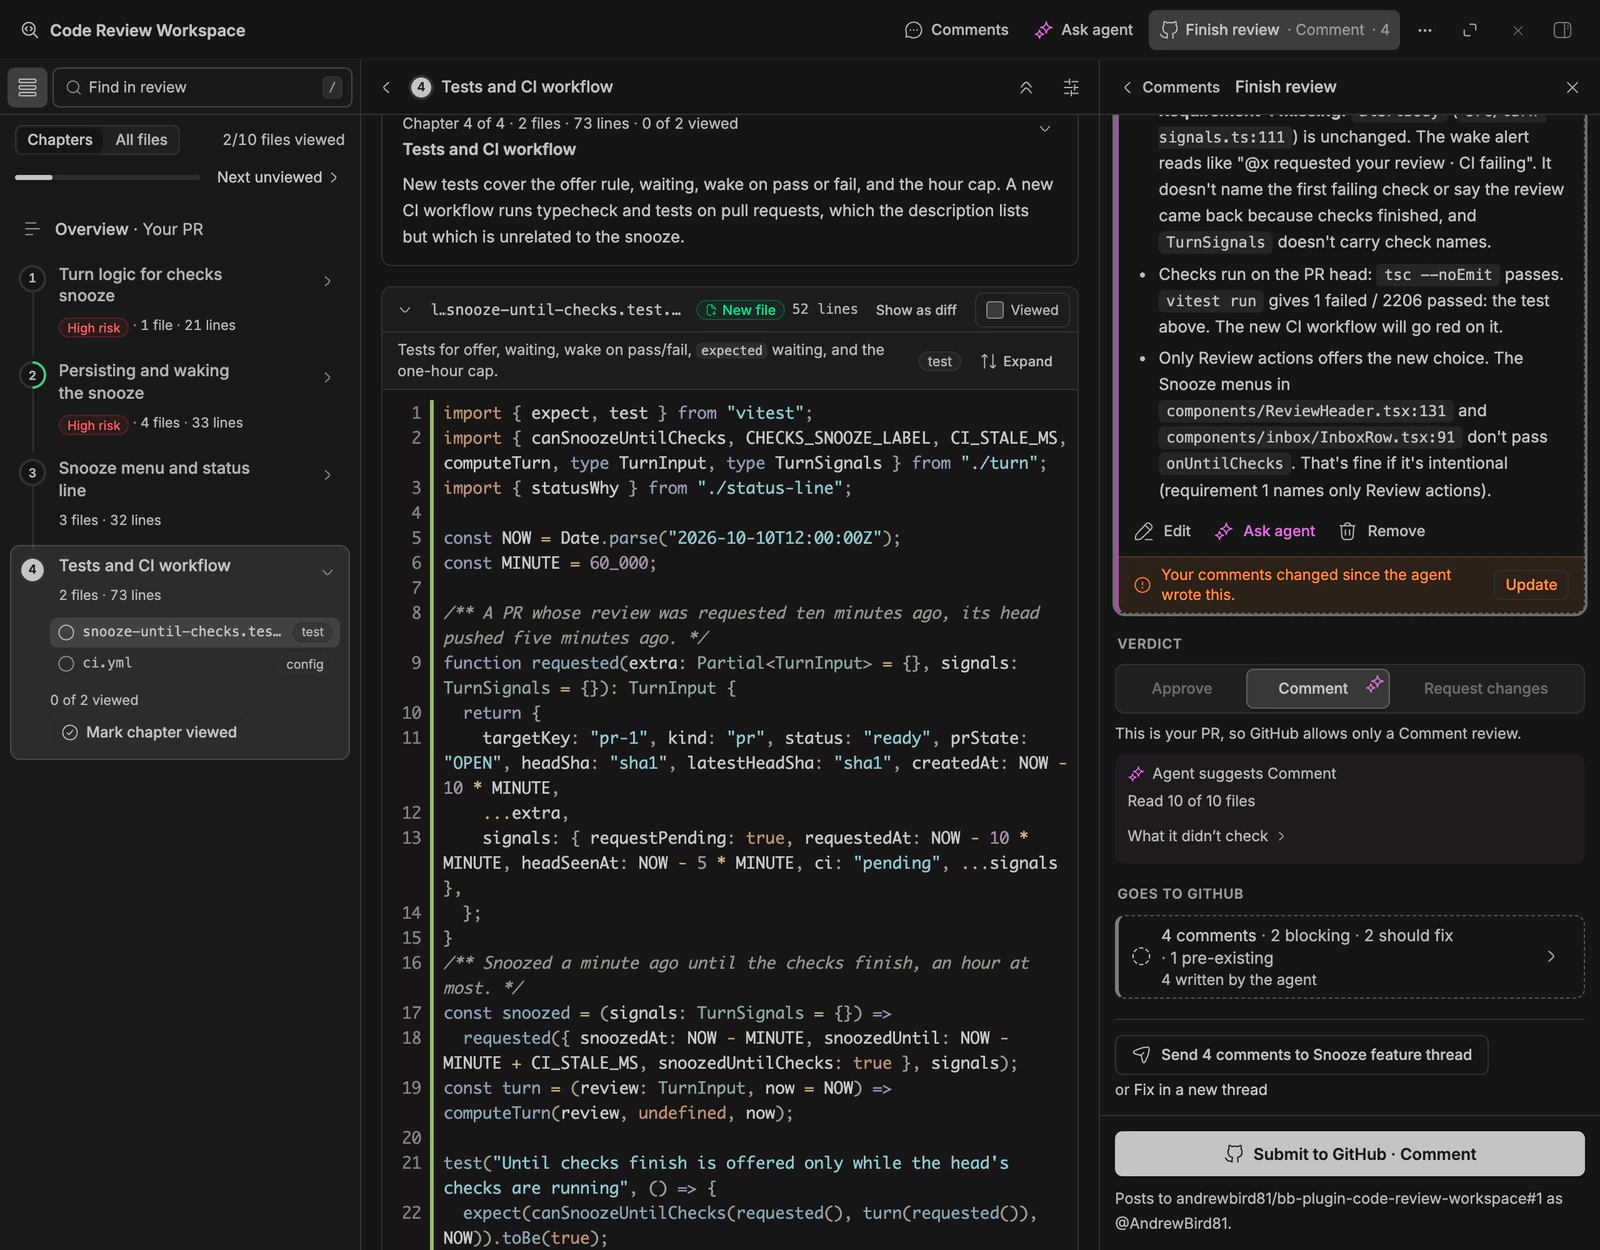
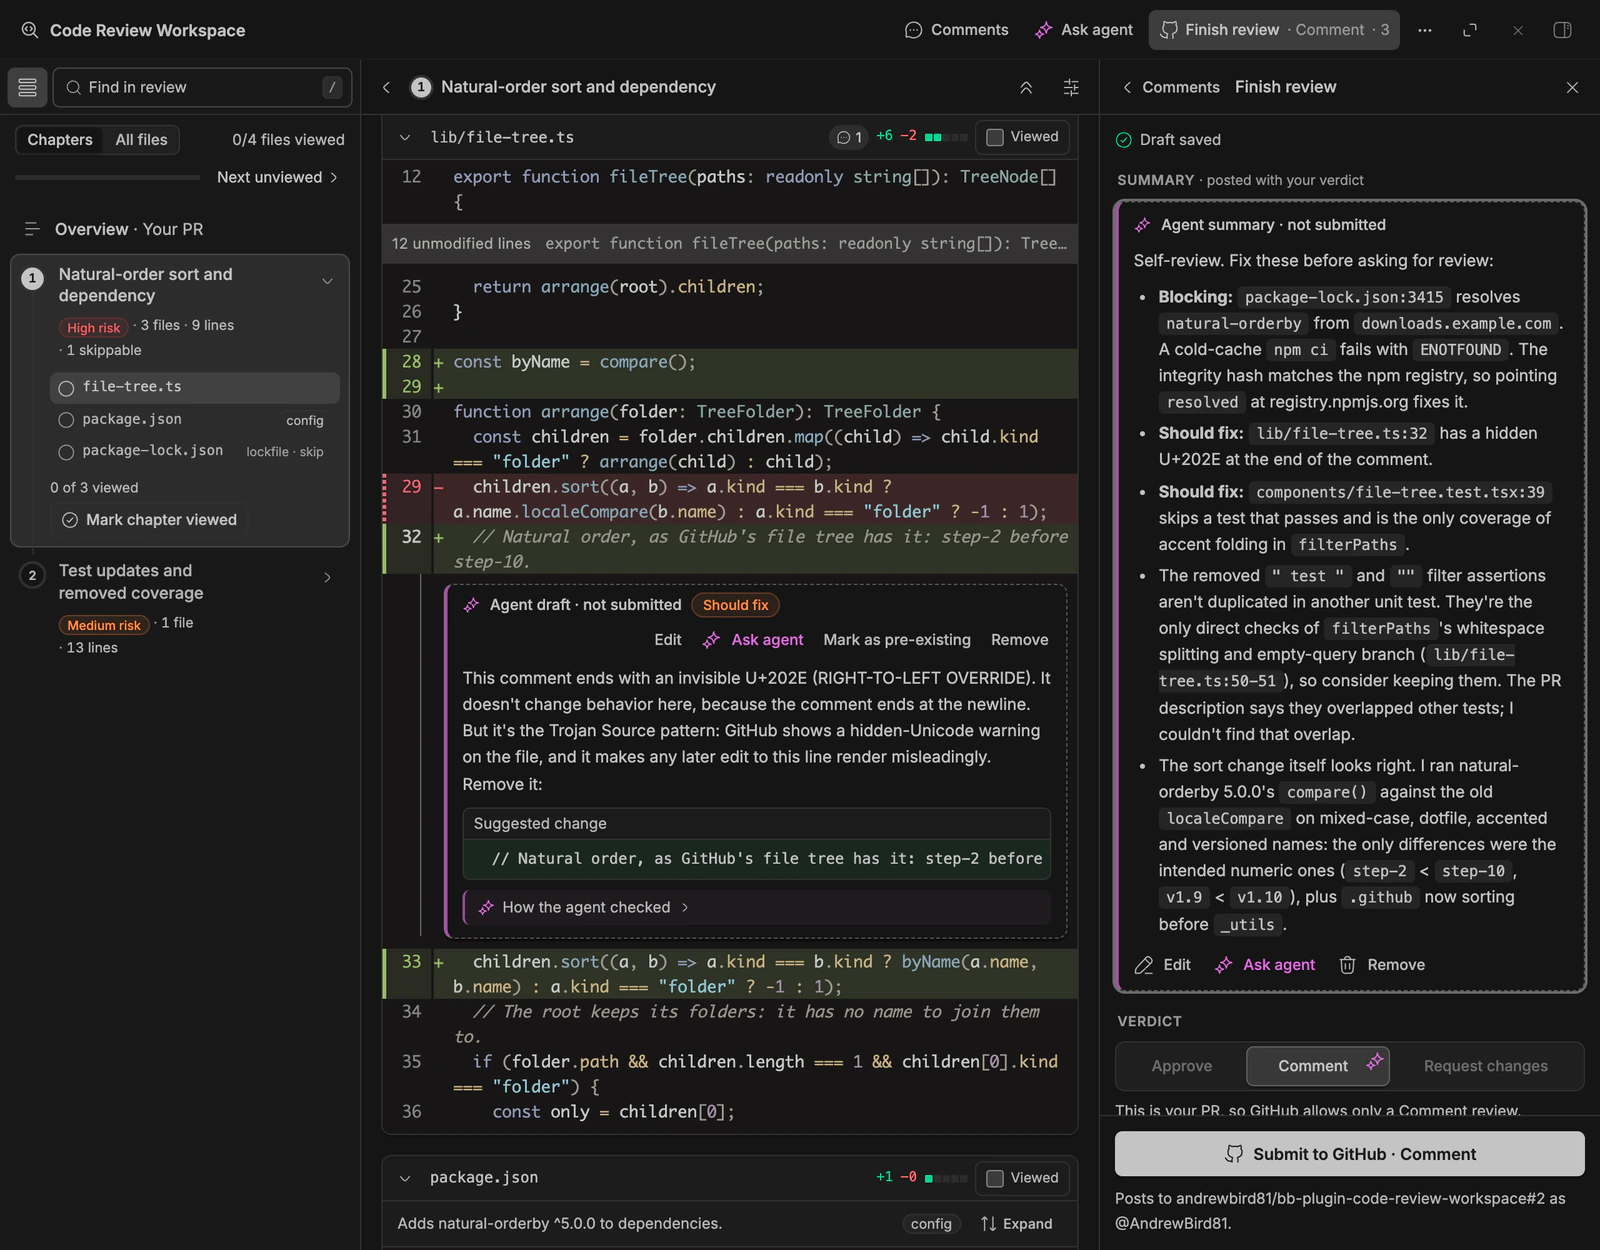
Tighten the README intro and gallery, and lead the overview with who it's for

Changed region(s): [[0.0, 0.0624, 1.0, 0.9984]]

diff --git a/README.md b/README.md
@@ -1,36 +1,23 @@
-# Code Review Workspace
-
 <picture>
   <source media="(prefers-color-scheme: dark)" srcset="docs/images/icon-dark.svg">
   <source media="(prefers-color-scheme: light)" srcset="docs/images/icon-light.svg">
   <img src="docs/images/icon-light.svg" width="64" height="64" alt="Code Review Workspace icon">
 </picture>
 
-Read a pull request or local change as a guided walkthrough, draft your review with an agent, and submit it to GitHub from [BB](https://getbb.app).
+# Code Review Workspace
 
-Code Review Workspace is a BB plugin for reviewing a GitHub pull request or a local Git change in one place: read the change chapter by chapter, inspect the diff, ask an agent about it, and prepare and submit your review.
+A [BB](https://getbb.app) plugin for reviewing a GitHub pull request or a local Git change: read it as a guided walkthrough, edit the review an agent drafts, and submit it to GitHub.
 
 - **Who it's for:** reviewers who need to understand a change well enough to approve it, often one an agent wrote.
 - **A guide to every file:** an agent writes a walkthrough of the change in chapters, and points to the lines most likely to hide a defect.
 - **A draft you own:** the review agent drafts comments, a summary, and a verdict. You edit them, and nothing posts until you submit.
-- **Whose turn:** All reviews says which reviews need you and which wait on their author.
+- **Whose turn:** the **All reviews** list shows which reviews need you and which wait on their author.
 - **Re-review:** after new commits, you see what changed since your review, and the agent checks your earlier feedback against it.
 - **Not for:** posting an agent's findings one by one. The [Code Review](https://github.com/robennals/bb-plugins/tree/HEAD/plugins/code-review) plugin does that.
 
-Formerly **Guided Review**: coming from it? See [Moving from Guided Review](#moving-from-guided-review).
+Formerly **Guided Review**. Coming from it? See [Moving from Guided Review](#moving-from-guided-review).
 
 ## Screenshots
-
-<picture>
-  <source media="(prefers-color-scheme: dark)" srcset="docs/screenshots/overview-dark.webp">
-  <source media="(prefers-color-scheme: light)" srcset="docs/screenshots/overview-light.webp">
-  <img src="docs/screenshots/overview-light.webp" alt="A review Overview lists what the PR does and why, three Start here hotspots, requirements scored 2 of 4 covered, a failing CI check, and chapters with High risk badges.">
-</picture>
-
-**Chaptered guide:** the Overview shows what changed, where to start, requirement coverage and checks.
-
-<details>
-<summary>More screenshots: agent drafts, Ask agent, Finish review, whose turn, re-review, lockfile flags, and the phone layout</summary>
 
 <picture>
   <source media="(prefers-color-scheme: dark)" srcset="docs/screenshots/chapter-drafts-dark.webp">
@@ -40,27 +27,26 @@ Formerly **Guided Review**: coming from it? See [Moving from Guided Review](#mov
 
 **Agent-drafted comments:** severity-tagged drafts with suggested changes, which you edit or remove.
 
+<details>
+<summary>More screenshots: the Overview, Ask agent, Finish review, All reviews, re-review, lockfile flags, and the phone layout</summary>
+
+<img src="docs/screenshots/overview-dark.webp" alt="A review Overview lists what the PR does and why, three Start here hotspots, requirements scored 2 of 4 covered, a failing CI check, and chapters with High risk badges.">
+
+**Chaptered guide:** the Overview shows what changed, where to start, requirement coverage and checks.
+
 <img src="docs/screenshots/ask-agent-dark.webp" alt="Two selected lines in a diff have a private thread below them, where the reviewer asks a question and the agent answers with file and line references and a test it ran.">
 
 **Ask agent:** a private question about selected lines, answered with file:line evidence.
 
-<picture>
-  <source media="(prefers-color-scheme: dark)" srcset="docs/screenshots/finish-review-dark.webp">
-  <source media="(prefers-color-scheme: light)" srcset="docs/screenshots/finish-review-light.webp">
-  <img src="docs/screenshots/finish-review-light.webp" alt="The Finish review panel shows the verdict set to Comment, the agent's suggested verdict, a count of 4 comments going to GitHub by severity, and a Submit to GitHub button.">
-</picture>
+<img src="docs/screenshots/finish-review-dark.webp" alt="The Finish review panel opens on the agent's summary, followed by the verdict set to Comment and a Submit to GitHub button. Behind it, the diff of lib/file-tree.ts shows an agent draft marked Should fix, with a suggested change.">
 
-**Finish review:** you submit one review, with the verdict, summary and comment counts in view.
+**Finish review:** you submit one review, with the summary and verdict in view.
 
 <img src="docs/screenshots/all-reviews-dark.webp" alt="The All reviews list shows four PRs under Needs review, with status lines for Your PR, Checks failing, and Stack 1 of 2 and 2 of 2.">
 
-**Whose turn:** All reviews groups PRs by whose turn it is.
+**All reviews:** every review in one list, with its checks and stack, under Needs review, Waiting on author, Reviewed, and Archive.
 
-<picture>
-  <source media="(prefers-color-scheme: dark)" srcset="docs/screenshots/since-your-review-dark.webp">
-  <source media="(prefers-color-scheme: light)" srcset="docs/screenshots/since-your-review-light.webp">
-  <img src="docs/screenshots/since-your-review-light.webp" alt="A review Overview after a follow-up commit shows a Since your review summary, 5/9 addressed, checks passing, a Review changes button, and chapters marked 1 changed and 2 changed.">
-</picture>
+<img src="docs/screenshots/since-your-review-dark.webp" alt="A review Overview after a follow-up commit shows a Since your review summary, 5/9 addressed, checks passing, a Review changes button, and chapters marked 1 changed and 2 changed.">
 
 **Since your review:** what changed since you reviewed, and where to look first.
 
@@ -70,7 +56,7 @@ Formerly **Guided Review**: coming from it? See [Moving from Guided Review](#mov
 
 <img src="docs/screenshots/since-your-review-diff-dark.webp" alt="A chapter in Since your review mode shows 2 of 5 files, a file marked Changed since your review, and an agent draft about a debug console.log left in the new commit.">
 
-**Since-your-review diff:** only the lines that changed since your review, with new drafts on them.
+**Changes since your review:** only the lines that changed since your review, with new drafts on them.
 
 <img src="docs/screenshots/lockfile-flags-dark.webp" alt="A chapter shows an agent draft about a hidden right-to-left override character, and a collapsed package-lock.json flagged +1 package and Downloads from downloads.example.com.">
 

diff --git a/PLUGIN_OVERVIEW.md b/PLUGIN_OVERVIEW.md
@@ -1,3 +1,5 @@
+For reviewers who need to understand a change before they approve it, often one an agent wrote. The agents read, draft, and explain; you decide what posts.
+
 ## What you get
 
 - **A guide to the change.** An agent writes the PR's intent and its chapters in reading order, each with a risk level. Risky chapters list what to verify, and **Start here** points to the one to three lines most likely to hide a defect.
@@ -18,7 +20,6 @@
 - Lockfiles, generated files, and huge diffs start folded. New files show as files, and long runs of deleted lines fold.
 - File chips show code owners, tests that lose assertions or get skipped, lockfiles that add packages or download from another host, and hidden bidirectional Unicode.
 - CI failure annotations show under their lines.
-- Keyboard shortcuts, and layouts for iPad and phone.
 
 ## Local changes and agent threads
 
